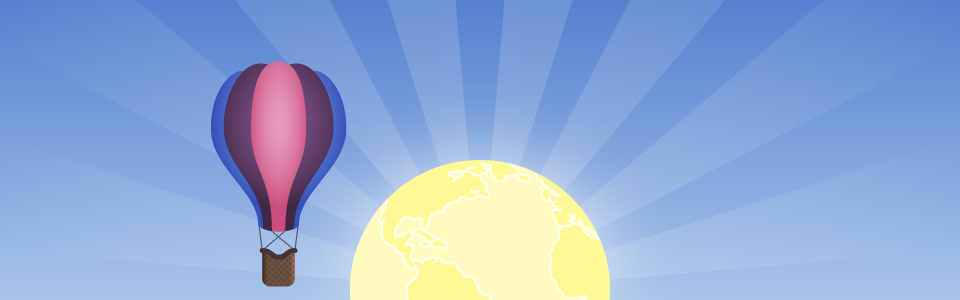
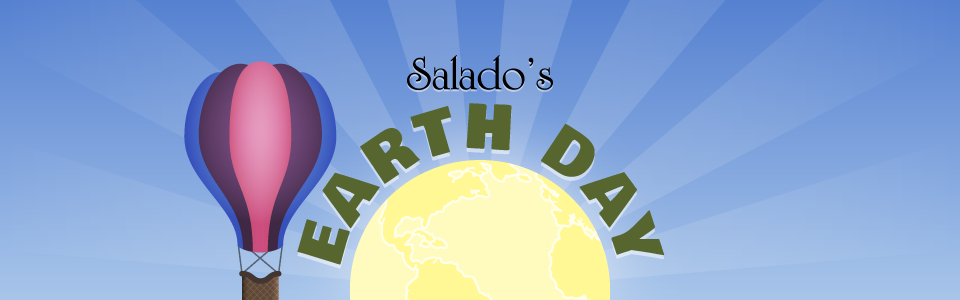
New header images

Changed region(s): [[0.1875, 0.21, 0.5312, 1.0], [0.5625, 0.42, 0.6875, 0.87], [0.4062, 0.18, 0.5938, 0.3]]

diff --git a/public/css/style.css b/public/css/style.css
@@ -22,7 +22,7 @@ body {
 
 header {
 	background: rgb(120, 158, 219) url('../img/bg-header.gif') center bottom repeat-x;
-	text-transform: uppercase;
+	text-indent: -9999px;
 }
 header > #branding {
 	background: rgb(120, 158, 219) url('../img/sky.png') center bottom no-repeat;
